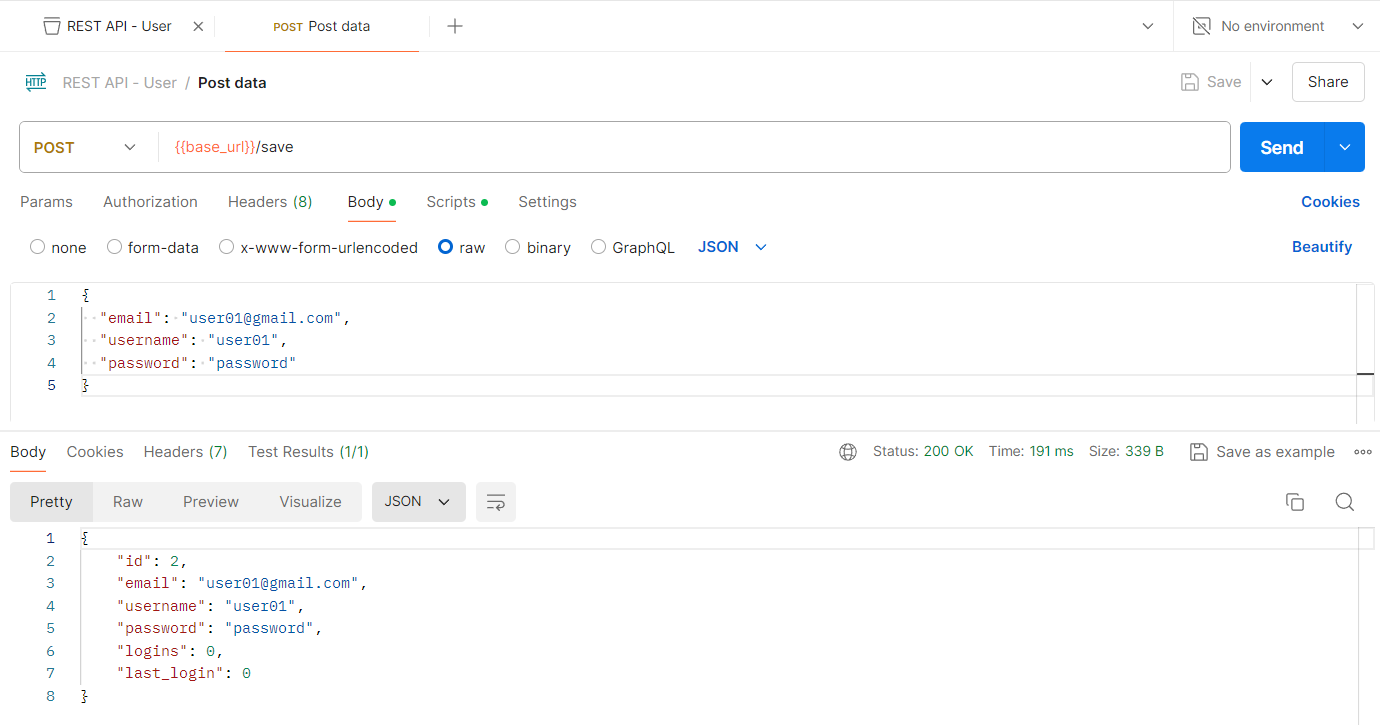
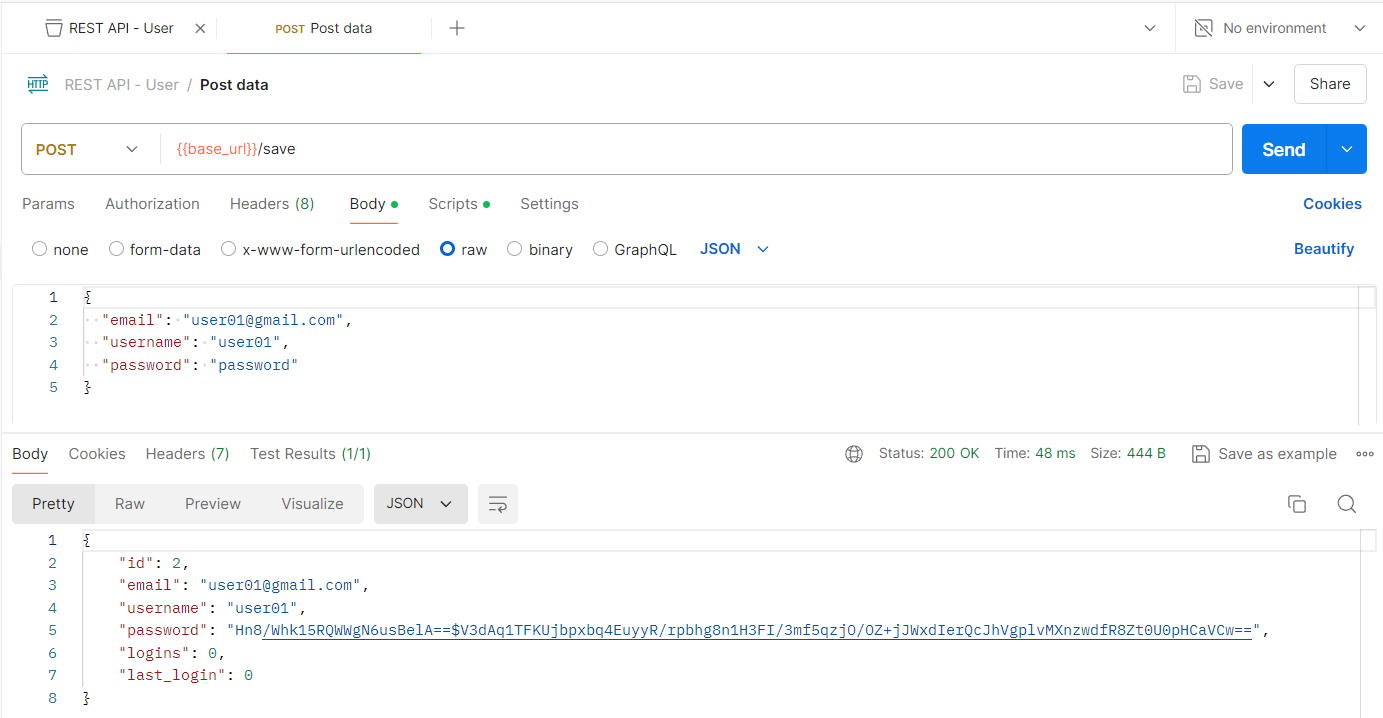
put

diff --git a/tutoriales/express_rest2.md b/tutoriales/express_rest2.md
@@ -199,11 +199,16 @@ Para actualizar UN registro de una entidad en una base de datos relacional, impl
   router.put('/update', function(req, res, next) {  
 
       let {id, email, username, password} = req.body;
+
+      // Encripte la contraseña con SALT
+      let salt = process.env.SALT
+      let hash = crypto.createHmac('sha512',salt).update(password).digest("base64");
+      let passwordHash = salt + "$" + hash
         
       Users.update({
         email: email,
         username: username,
-        password: password,
+        password: passwordHash,
         logins: 0,
         last_login: 0
       },
